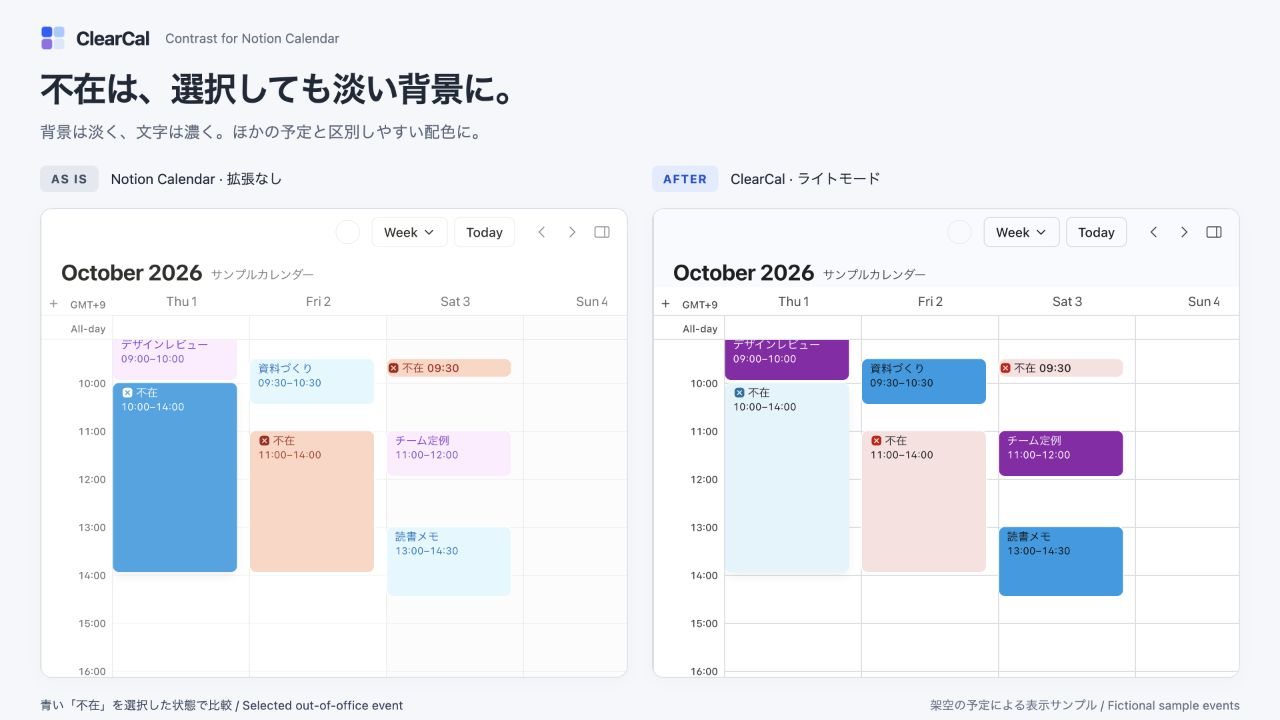
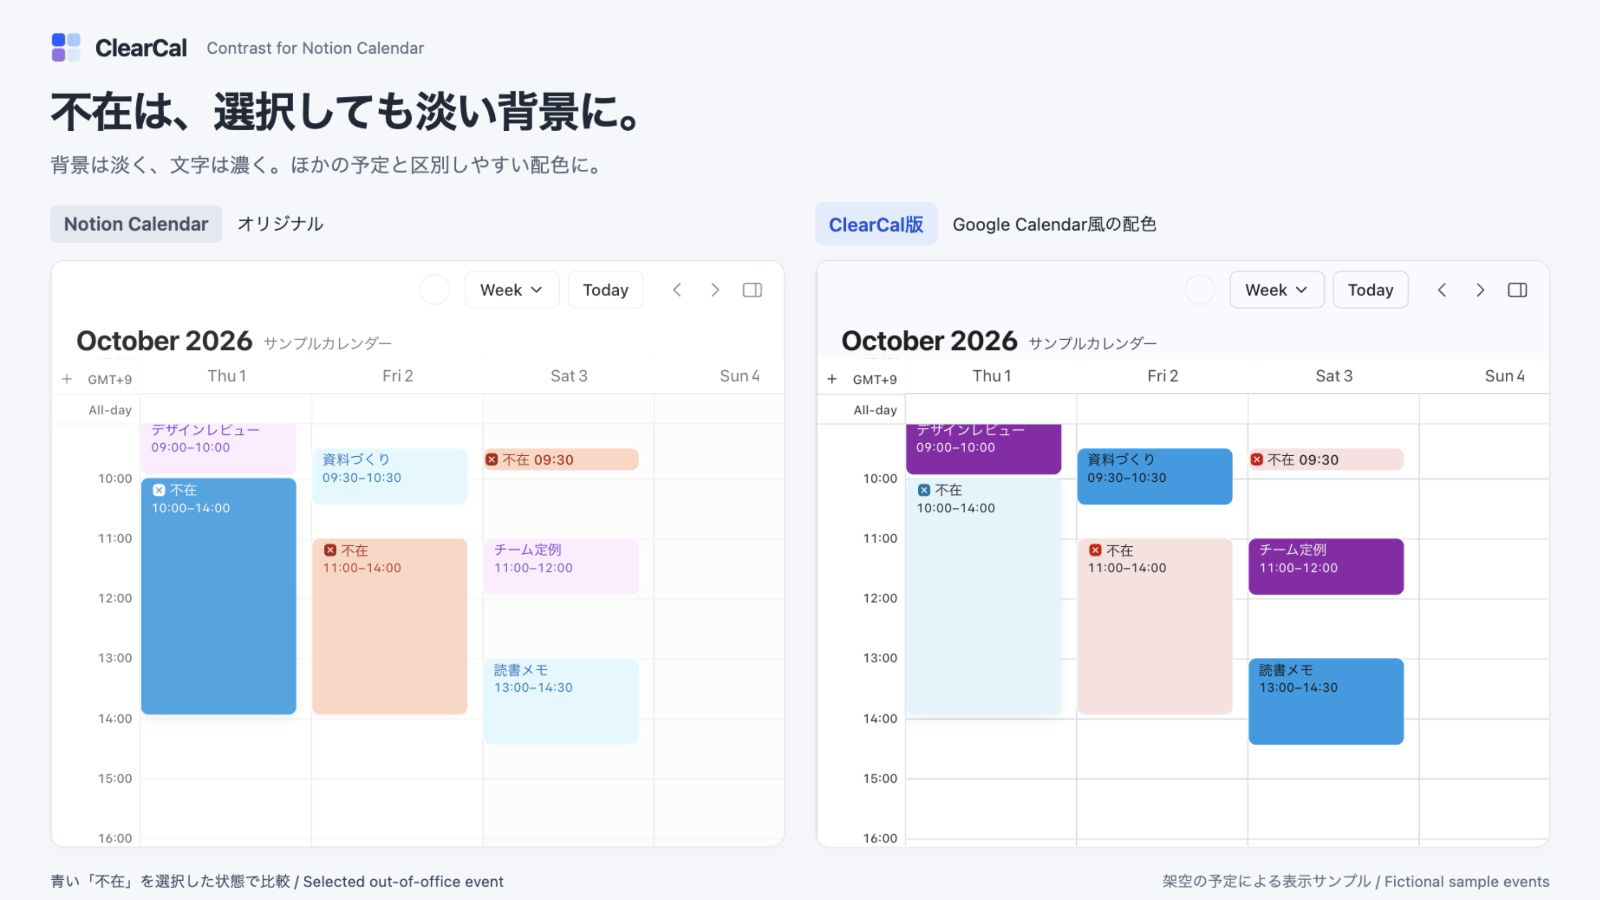
Label comparisons as Notion Calendar and ClearCal versions

diff --git a/README.md b/README.md
@@ -1,12 +1,12 @@
 # ClearCal — Contrast for Notion Calendar
 
-![通常予定の変更前・変更後。左はNotion Calendarの元の配色、右はClearCalのライトモード。](marketing/comparisons/events-before-after.png)
+![同じ予定をNotion CalendarとClearCal版で比較。左はオリジナル、右はGoogle Calendar風の配色。](marketing/comparisons/events-before-after.png)
 
-![不在の変更前・変更後。選択中の青い不在も、ClearCalでは淡い背景と濃い文字で表示。](marketing/comparisons/away-before-after.png)
+![Notion CalendarとClearCal版の不在表示。ClearCal版では選択中も淡い背景と濃い文字で表示。](marketing/comparisons/away-before-after.png)
 
-実際のNotion CalendarのDOM・CSSを使ったローカル画面の比較です。予定名・時刻・配置はすべて架空で、変更後にはClearCalの実コードを適用しています。画像生成によるUIではありません。
+Notion Calendarのオリジナル表示と、拡張を適用したClearCal版の比較です。実際のDOM・CSSを使ったローカル画面に、架空の予定名・時刻・配置を入れています。ClearCal版には拡張の実コードを適用しており、画像生成によるUIではありません。
 
-*Screenshots of a local view using Notion Calendar's actual DOM/CSS, with entirely fictional event names, times, and placements. The after view runs ClearCal's actual code. No AI-generated UI or personal calendar data is shown.*
+*Notion Calendar's original appearance alongside the ClearCal version. These local screenshots use the actual DOM/CSS with entirely fictional event names, times, and placements. The ClearCal version runs the extension's actual code. No AI-generated UI or personal calendar data is shown.*
 
 [English below](#english)
 
